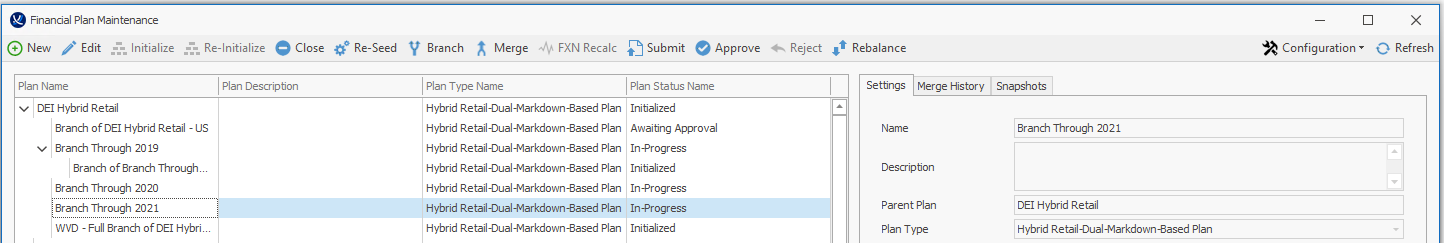
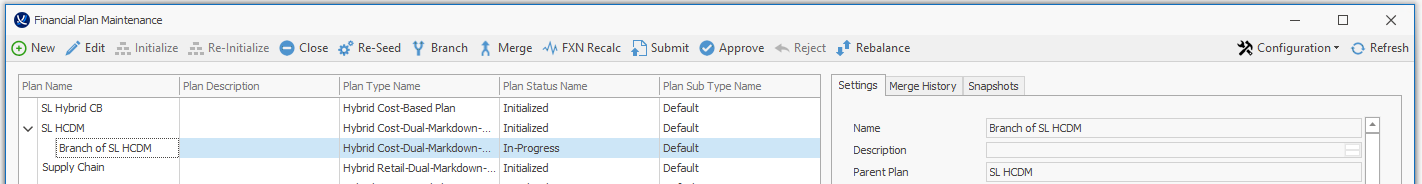
Plan Sub Type Name column and update Help with RN

Changed region(s): [[0.0, 0.0, 1.0, 1.0], [0.6807, 0.8152, 0.9592, 0.8696], [0.1238, 0.4348, 0.1857, 0.4891]]

diff --git a/Content/Topics/Release Notes/Wholesale Planning.htm b/Content/Topics/Release Notes/Wholesale Planning.htm
@@ -33,11 +33,11 @@ These wholesale accounts are managed by grouping multiple sell-ins together into
         <p>Editing a Cluster Set will show the Classifications created.</p>
         <h2>Site Manager</h2>
         <h3>Reviewing the customers under an Account site type</h3>
-        <p>Wholesale planners can, when managing wholesale accounts,  see the customer names for sites of type <span class="Emphasis">Account</span> by selecting a new widget <span class="Emphasis">Site Account Customer Relations</span>. The customer names are read-only as changes to the Customer Account relationship are performed done in Customer Manager.</p>
+        <p>Wholesale planners can, when managing wholesale accounts,  see the customer names for sites of type <span class="Emphasis">Account</span> by selecting a new widget <span class="Emphasis">Site Account Customer Relations</span>. The customer names are read-only as changes to the Customer Account relationship are performed in Customer Manager.</p>
         <p class="BasicNote">Sites that are not of site type Account do not display any results.</p>
         <h3>Splitting Account demand into different DCs</h3>
         <p>A new widget labeled <span class="Emphasis">Site Account Source Site Contribution</span> displays a cross product of items in the hierarchy and all DCs. This widget lets users review the default contribution factor (or split percentage) derived from past customer imports and override the default contributions on  particular hierarchy level as desired. However, an override itself cannot be overridden. </p>
-        <p>After a user enters a value in the <span class="Emphasis">Override</span> field and clicks <span class="Emphasis">Save</span>, the <span class="Emphasis">Clear Override</span> field for that row is formatted orange. The Clear Override functionality clears overrides for all the DCs for the item. When overrides are cleared the default contribution percentage is used.</p>
+        <p>After a user enters a value in the <span class="Emphasis">Override</span> field and clicks <span class="Emphasis">Save</span>, the <span class="Emphasis">Clear Override</span> field for that row is formatted orange. The <span class="Emphasis">Clear Override</span> functionality clears overrides for all the DCs for the item. When overrides are cleared the default contribution percentage is used.</p>
         <p class="BasicNote">If 10,000 units have a 50/50 split between 2 DCs out of a total of 4 DCs, then 5,000 units are sent to each of the 2 DCs.</p>
         <p>A new system policy <span class="Emphasis">Site Wholesale Account Distribution: ItemMaster Hierarchy ID</span> defines the hierarchy used. (For more information, see the <cite>System Policies</cite> section.)</p>
         <p>New job task <span class="Emphasis">(WS) (Weekly) Calculate Source Site Percent Contribution for Accounts</span></p>
@@ -46,7 +46,7 @@ These wholesale accounts are managed by grouping multiple sell-ins together into
         <p>Users then maintain the Customer entity and do the linking in Customer Manager. Within Customer Manager, the site represents the account with customers rolling up into accounts. Customers are grouped 1 to 20 like other entities that can be used to show a hierarchy.</p>
         <p>Two new fields <span class="Emphasis">Account Name</span> and <span class="Emphasis">Location Count</span> located under the <span class="Emphasis">Customer Account</span> group can be added to the top grid in the Customer Manager Document. Both fields are editable and have the <span class="Emphasis">Multiple Changes</span> right-click menu option. The value in the <span class="Emphasis">Location Count</span> field can be used within Assortment Planning.</p>
         <h2>Merchandise Financial Planning</h2>
-        <p>Wholesale has been added as a Channel within MFP, with the ability to add sub-channel hierarchies beneath Wholesale for used for individual plans by account.</p>
+        <p>Within MFP, TG JE v2023.4 introduces a new Channel labeled <span class="Emphasis">Wholesale</span>, with the ability to add sub-channel hierarchies beneath <span class="Emphasis">Wholesale</span> for use in individual plans by account.</p>
         <h3>Include Wholesale Totals in Hierarchy</h3>
         <p>If the desired functionality is to include wholesale accounts in MFP, but not plan them individually, then all that is necessary is to include the Channel group in the MFP hierarchy configuration. Then Wholesale will be available when hierarchies are generated.</p>
         <h3>Include Individual Wholesale Accounts in Hierarchy</h3>
@@ -69,7 +69,7 @@ These wholesale accounts are managed by grouping multiple sell-ins together into
                 </p>
             </li>
         </ol>
-        <p>Users will be able to view individual Wholesale Accounts in the MFP hierarchy:</p>
+        <p>Users can then view individual Wholesale Accounts in the MFP hierarchy:</p>
         <p>
             <img src="../../Resources/Images/Wholesale Planning/View Wholesale Accounts Maintain Financial Plan.PNG" class="LargeImages" />
         </p>

diff --git a/Content/Topics/Merchandise Financial Planning/Including Wholesale In Channel Hierarchy.htm b/Content/Topics/Merchandise Financial Planning/Including Wholesale In Channel Hierarchy.htm
@@ -1,0 +1,39 @@
+<?xml version="1.0" encoding="utf-8"?>
+<html xmlns:MadCap="http://www.madcapsoftware.com/Schemas/MadCap.xsd">
+    <head>
+    </head>
+    <body>
+        <h1>Including Wholesale in a Channel hierarchy</h1>
+        <p>The <span class="Emphasis">Wholesale</span> Channel can be included in the hierarchy along with the ability to add sub-channel hierarchies beneath <span class="Emphasis">Wholesale</span> for use in individual plans by account.</p>
+        <p>If the desired functionality is to include wholesale accounts in MFP, but not plan them individually, then all that is necessary is to include the Channel group in the MFP hierarchy configuration. Then Wholesale will be available when hierarchies are generated.</p>
+        <p>To include Wholesale in the Channel Hierarchy, the following steps must be taken:</p>
+        <ol>
+            <li>
+                <p>One of the Site Groups 1 - 20 should be used to represent each wholesale account.  For example, <span class="Emphasis">Site Group 7</span> is given the friendly name <span class="Emphasis">Wholesale Account</span>:</p>
+                <p>
+                    <img src="../../Resources/Images/Wholesale Planning/Site Group Representing Wholesale Account.PNG" class="LargeImages" />
+                </p>
+            </li>
+            <li>
+                <p>Import Site Group values that exactly match each Account, and assign that SiteGroupID value to each wholesale account site.</p>
+                <p class="BasicNote">All Retail sites / DCs / other sites will have value of 0, No SiteGroup.</p>
+            </li>
+            <li>
+                <p>Include the Site Group level in the Global Groups configuration in MFP:</p>
+                <p>
+                    <img src="../../Resources/Images/Wholesale Planning/Site Group Level Global Groups Configuration.PNG" class="LargeImages" />
+                </p>
+            </li>
+        </ol>
+        <p>Users can then view individual Wholesale Accounts in the MFP hierarchy:</p>
+        <p>
+            <img src="../../Resources/Images/Wholesale Planning/View Wholesale Accounts Maintain Financial Plan.PNG" class="LargeImages" />
+        </p>
+        <h3>Sites and customer accounts</h3>
+        <p>Sites and Customer Accounts cannot co-mingle in MFP.  Data for wholesale accounts can exist in their own hierarchy levels alongside retail hierarchy levels, but at the leaf level, they cannot intersect.  For example, if the brand is ToolsGroup Tees, the Toolsgroup Tees-owned retail site Irvine and the Customer Account called “Irvine Sport Shop” that resells ToolsGroup Tees branded items cannot both exist in the Total Company &gt; USA &gt; Southwest Channel.  </p>
+        <p>The hierarchy must be further divided to separate sites and accounts, or hierarchy levels with mixtures must be excluded. If a mixed hierarchy level is included, the following message displays:</p>
+        <p>
+            <img src="../../Resources/Images/Wholesale Planning/Sites and Customer Accounts Mixed.png" class="LargeImages" />
+        </p>
+    </body>
+</html>

diff --git a/Content/Topics/Cluster Site Manager/Configuring cluster collection  sets.htm b/Content/Topics/Cluster Site Manager/Configuring cluster collection  sets.htm
@@ -1,9 +1,7 @@
 <?xml version="1.0" encoding="utf-8"?>
 <html xmlns:MadCap="http://www.madcapsoftware.com/Schemas/MadCap.xsd" xml:lang="en-us">
     <head>
-        <link href="../../Resources/TableStyles/standard.css" rel="stylesheet" MadCap:stylesheetType="table" />
-        <title>
-        </title>
+        <link href="../../Resources/TableStyles/standard.css" rel="stylesheet" MadCap:stylesheetType="table" /><title></title>
     </head>
     <body>
         <h1>Configuring cluster collection  sets</h1>
@@ -77,7 +75,9 @@
                 </tr>
                 <tr class="TableStyle-standard-Body-Body1">
                     <td class="TableStyle-standard-BodyE-Column1-Body1">Cluster Type</td>
-                    <td class="TableStyle-standard-BodyD-Column2-Body1">The cluster set/template type.</td>
+                    <td class="TableStyle-standard-BodyD-Column2-Body1">
+                       The cluster set/template type.
+                        <div class="Note_BasicNote"><p>For the <span class="Emphasis">Wholesale Account Cluster</span> cluster type, sites are selected the same way as with the other cluster types. Users do not select or create this cluster type within the UI as these are automatically created within the import process. However, users need to open new <span class="Emphasis">Wholesale Account Cluster</span> sets and click <span class="Emphasis">Calculate</span> to assign the correct Clusters.</p><p>Editing a Cluster Set will show the Classifications created.</p></div></td>
                 </tr>
                 <tr class="TableStyle-standard-Body-Body1">
                     <td class="TableStyle-standard-BodyE-Column1-Body1">Cluster Partition Site Filter By Field</td>

diff --git a/Content/Topics/Site Manager/Splitting Account Demand.htm b/Content/Topics/Site Manager/Splitting Account Demand.htm
@@ -3,7 +3,11 @@
     <head>
     </head>
     <body>
-        <h1>Splitting Account Demand</h1>
-        <p>Delete this text and replace it with your own content.</p>
+        <h1>Splitting Account demand into different DCs</h1>
+        <p>The <span class="Emphasis">Site Account Source Site Contribution</span> blade displays a cross product of items in the hierarchy and all DCs. Users can review the default contribution factor (or split percentage) derived from past customer imports and override the default contributions on  particular hierarchy level as desired. However, an override itself cannot be overridden. </p>
+        <p>After a user enters a value in the <span class="Emphasis">Override</span> field and clicks <span class="Emphasis">Save</span>, the <span class="Emphasis">Clear Override</span> field for that row is formatted orange. The <span class="Emphasis">Clear Override</span> functionality clears overrides for all the DCs for the item. When overrides are cleared the default contribution percentage is used.</p>
+        <p class="BasicNote">If 10,000 units have a 50/50 split between 2 DCs out of a total of 4 DCs, then 5,000 units are sent to each of the 2 DCs.</p>
+        <p>System policy <span class="Emphasis">Site Wholesale Account Distribution: ItemMaster Hierarchy ID</span> defines the hierarchy used.</p>
+        <p>New job task <span class="Emphasis">(WS) (Weekly) Calculate Source Site Percent Contribution for Accounts</span></p>
     </body>
 </html>

diff --git a/Content/Topics/Merchandise Financial Planning/Creating a Master Plan.htm b/Content/Topics/Merchandise Financial Planning/Creating a Master Plan.htm
@@ -183,9 +183,10 @@ IF(Season-To-Date GAFS Units = 0, 0, Sales Units / Season-To-Date GAFS Units ) *
         <h3>Channel tab</h3>
         <p> Location hierarchical structures contained within plans are defined in the <span class="Emphasis">Channel</span> tab.&#160; The location hierarchy levels selected define the levels users can work with.</p>
         <p>
-            <img src="../../Resources/Images/MFP/Channel tab layout.PNG" class="LargeImages" />
+            <img src="../../Resources/Images/Wholesale Planning/View Wholesale Accounts Maintain Financial Plan.PNG" class="LargeImages" />
         </p>
         <p>The top section of the screen is where the plan levels are selected.&#160;The bottom section is where users determine which channels are contained within the master plan. </p>
+        <p class="BasicNote">For information relating to adding <span class="Emphasis">Wholesale</span> to the hierarchy, see <MadCap:xref href="Including Wholesale In Channel Hierarchy.htm">Including Wholesale In Channel Hierarchy</MadCap:xref>.</p>
         <h3>User Access tab</h3>
         <p>The <span class="Emphasis">User Access</span> tab is used to define user and role access permissions.&#160; In the bottom section, setting up the permissions requires that the user navigate through three tabs: <span class="Emphasis">Product</span>, <span class="Emphasis">Channel</span>, <span class="Emphasis">Merge Measure Set</span>.&#160;</p>
         <p>

diff --git a/Content/Topics/Merchandise Financial Planning/Plan Approvals.htm b/Content/Topics/Merchandise Financial Planning/Plan Approvals.htm
@@ -45,9 +45,6 @@
         <p>The destination plan changes to a status of <span class="Emphasis">Approved</span> and the merge history on the right hand side of the <span class="Emphasis">Financial Plan Maintenance</span> view updates.&#160; </p>
         <h2>Merge History tab</h2>
         <p>The <span class="Emphasis">Merge History</span> tab is an audit trail of the approval process and displays when merges were made to and from the plans that are being worked with.</p>
-        <p>
-            <img src="../../Resources/Images/MFP/Merge History.png" class="LargeImages" />
-        </p>
         <p>The branch plan or source plan remains in <span class="Emphasis">Approved</span> status until changes are made at which time the status reverts back to <span class="Emphasis">In-Progress</span>.&#160; </p>
         <h2>Rejecting a plan</h2>
         <p>If the plan is rejected and not approved, then the plan is returned with any notes added by the authorized approver.&#160; </p>

diff --git a/Content/Topics/Release Notes/Merchandise Financial Planning.htm b/Content/Topics/Release Notes/Merchandise Financial Planning.htm
@@ -4,5 +4,11 @@
     </head>
     <body>
         <h1>Merchandise Financial Planning</h1>
+        <h2>Verifying which plans are default and which are Original Plan</h2>
+        <p>A new <span class="Emphasis">Plan Sub Type Name</span> column has been added as an available column to the <span class="Emphasis">Financial Plan Maintenance</span> screen to supplement <span class="Emphasis">Plan Name</span>, <span class="Emphasis">Plan Description</span>, <span class="Emphasis">Plan Type Name</span>, and <span class="Emphasis">Plan Status Name</span>. The new column allows users to quickly and easily see which plans are default and which are Original Plan.</p>
+        <p>
+            <img src="Plan Sub Type Name column.png" class="LargeImages" />
+        </p>
+        <p><span class="Emphasis">Plan Sub Type Name</span> can be added using the <span class="Emphasis">Choose Column</span> option on the right-click menu.</p>
     </body>
 </html>

diff --git a/Content/Topics/Site Manager/Reviewing Customers Under Account Type.htm b/Content/Topics/Site Manager/Reviewing Customers Under Account Type.htm
@@ -1,0 +1,10 @@
+<?xml version="1.0" encoding="utf-8"?>
+<html xmlns:MadCap="http://www.madcapsoftware.com/Schemas/MadCap.xsd">
+    <head>
+    </head>
+    <body>
+        <h1>Reviewing the customers under an Account site type</h1>
+        <p>Wholesale planners can, when managing wholesale accounts,  see the customer names for sites of type <span class="Emphasis">Account</span> by selecting the <span class="Emphasis">Site Account Customer Relations</span> blade. The customer names are read-only as changes to the Customer Account relationship are performed in Customer Manager.</p>
+        <p class="BasicNote">Sites that are not of site type Account do not display any results.</p>
+    </body>
+</html>
